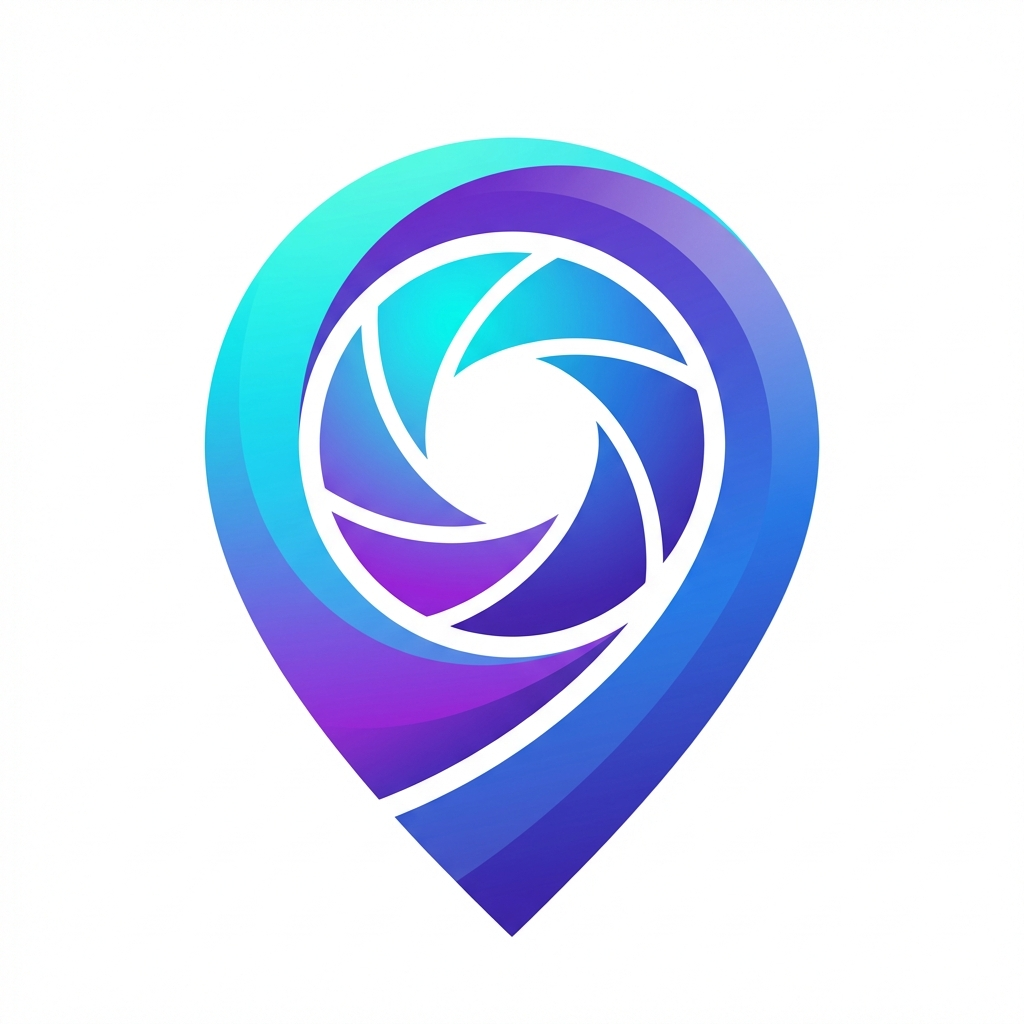
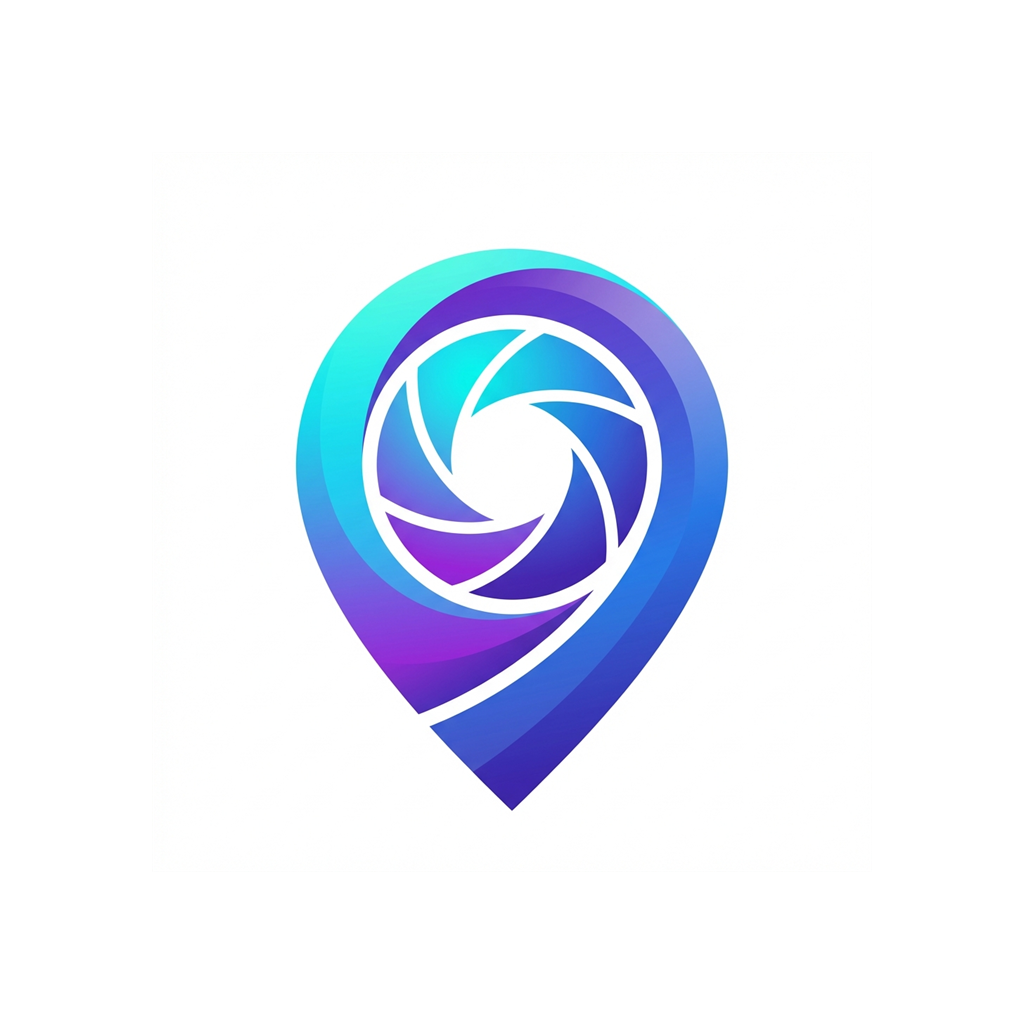
code updated

Changed region(s): [[0.1875, 0.125, 0.8125, 0.9062]]

diff --git a/README.md b/README.md
@@ -120,12 +120,12 @@ This runs:
 
 - TypeScript typecheck
 - Web production export
-- Android debug APK build
+- Android release APK build
 
 Output locations:
 
 - Web: `dist`
-- Android debug APK: `android/app/build/outputs/apk/debug/app-debug.apk`
+- Android release APK: `android/app/build/outputs/apk/release/app-release.apk`
 
 ### Web Build
 
@@ -173,7 +173,23 @@ cd android
 
 ### Android Debug APK
 
+Debug APKs are for Metro-based development only. They are not meant for direct installation as a standalone app.
+
 Build only the Android debug APK:
+
+```bash
+npm run build:apk:debug
+```
+
+Debug APK output:
+
+- `android/app/build/outputs/apk/debug/app-debug.apk`
+
+If you install a debug APK directly, you must run Metro or you will see the `Unable to load script` error.
+
+### Android Release APK
+
+Build an installable Android release APK locally:
 
 ```bash
 npm run build:android
@@ -183,18 +199,6 @@ Equivalent commands:
 
 ```bash
 npm run build:apk
-npm run build:apk:debug
-```
-
-Debug APK output:
-
-- `android/app/build/outputs/apk/debug/app-debug.apk`
-
-### Android Release APK
-
-Build a release APK locally:
-
-```bash
 npm run build:apk:release
 ```
 
@@ -383,6 +387,7 @@ index.ts
 
 - If location is not fetched, make sure device GPS is enabled
 - If camera is not opening, confirm camera permission is granted
+- If you see `Unable to load script` after installing an APK, you installed a debug APK. Use the release APK instead, or run Metro for debug builds
 - If the web map does not load, verify your internet connection and tile configuration
 - If Metro behaves unexpectedly, restart it with:
 